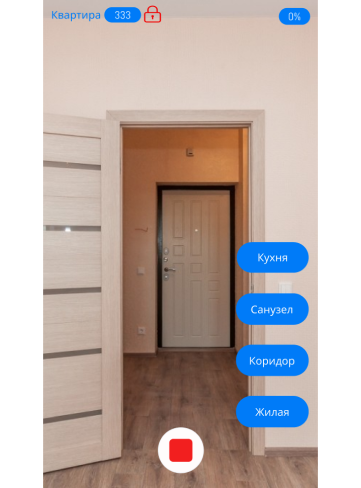
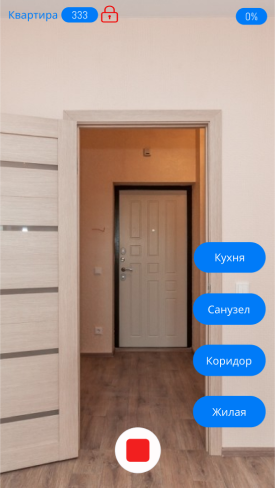
поправил отступы, вернул картинки

diff --git a/stroikontrol_site/index.html b/stroikontrol_site/index.html
@@ -2,7 +2,7 @@
 <html lang="en">
 <head>
     <meta charset="UTF-8">
-
+    <meta name="viewport" content="width=device-width, initial-scale=1">
     <title>Title</title>
     <link rel="stylesheet" href="assets/css/styles.css">
 </head>
@@ -86,10 +86,10 @@
                     <span class="bd-title">Контроль отделки в Вашем телефоне</span>
                     <span class="bd-content">Снимите процесс обхода этажа с помощью нашего приложения и получите мгновенный результат анализа готовности отделки поквартирно. Информация о результатх обхода будет храниться в базе данных и на сервере, поэтому Вы также сможете посмотреть ее через наш сайт.</span>
                 </div>
-                <img src="assets/imgs/Rectangle%2029.png" class="about-img" alt="" id="img2">
+                <img src="assets/imgs/Rectangle%2029.png" class="about-img" alt="123" id="img2" style="width: 30%;">
             </div>
             <div class="about-content">
-                <img src="assets/imgs/Rectangle%2030.png" class="about-img" alt="">
+                <img src="assets/imgs/Rectangle%2030.png" class="about-img" alt="123">
                 <div class="about-body">
                     <span class="bd-title"> Аналитика под рукой</span>
                     <span class="bd-content">На сайте представлен раздел “Анализ” для каждого жилого комплекса, где Вы можете скачать “шахматки”, диаграммы и графики для дальнейшего анализа хода отделочных работ.</span>
@@ -116,6 +116,9 @@
                     </ul>
                 </span>
                 </div>
+                <div>
+                    <img src="assets/imgs/image%20here.png" alt="" class="siteandapp--img notebook">
+                </div>
             </div>
             <div class="siteandapp--body disabled">
                 <div class="content--text">
@@ -130,6 +133,9 @@
                         <li>Постановка задач (?).</li>
                     </ul>
                 </span>
+                </div>
+                <div>
+                    <img src="assets/imgs/phone_frame.png" alt="" class="siteandapp--img">
                 </div>
             </div>
             <div class="selectors">

diff --git a/stroikontrol_site/assets/css/styles.css b/stroikontrol_site/assets/css/styles.css
@@ -382,10 +382,13 @@ footer{
 }
 .siteandapp--img{
     width: 100%;
+    max-width: 200px;
+}
+.notebook{
     max-width: 400px;
 }
 .about-img{
-    max-width: 600px;
+    max-width: 700px;
     width: 100%;
 }
 .tg-contact{
